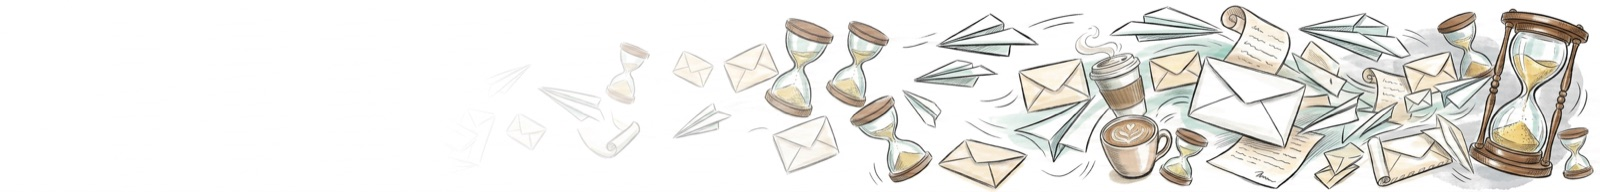
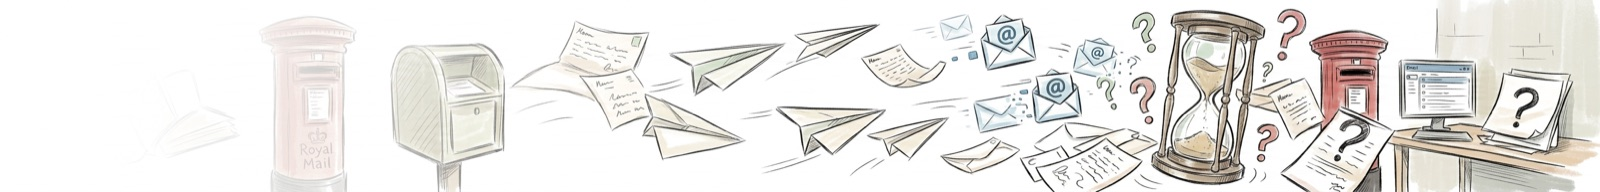
Query Centre: the postbox artwork, and Hide becomes a chevron on the border
New artwork (postboxes, emails, planes, hourglasses, question marks) exported
from the 2928×352 Firefly source to 1600×192, and the fold control moved onto the
masthead's bottom border as a chevron pill, mirroring the badge that already sits
on the window's border in the folded state.

⚠ THE CONTROL HAD TO LEAVE THE MEASURE, AND THAT IS A REAL STRUCTURAL FINDING
RATHER THAN A TWEAK. `.wpg-mast` collapses by animating `max-height` to 0 under
`overflow: hidden` — that IS the fold — so anything inside it is clipped to the
thing it is collapsing. Invisible while the control was a text button sitting well
inside the measure; immediately fatal to a badge meant to straddle the band's
bottom border. Measured: the pill's box was in exactly the right place, computed
`visible` at `z-index: 30`, and painted nothing at all — `elementsFromPoint` at
its centre returned the CHROME, and every sample along its middle came back as the
hairline underneath it.

It is also the right way round on its own terms: a control that collapses a box
should not be inside that box, or it animates away with the thing it operates on.
The folded state's badge already lives outside for exactly this reason — the
window clips, so it is portalled to the window's wrapper.

So the button is a sibling of the measure now, inside the slab, and the slab is
`position: relative` on a static page so it is what the button positions against.
[…]

diff --git a/tests/e2e/chevronFold.measure.ts b/tests/e2e/chevronFold.measure.ts
@@ -68,6 +68,9 @@ const read = (page: Page, cls: string) => page.evaluate((c) => {
       const inMast = [...g.querySelectorAll(".wpg-mast button, .wpg-mast a, .wpg-mast [role='button']")];
       return inMast.filter((e) => (e as HTMLElement).getBoundingClientRect().height > 0).length;
     })(),
+    /* the fold control moved OUT of the measure and is a child of the slab — see below */
+    foldInChrome: [...g.querySelectorAll(".wpg-chrome > .wpg-mast-hide")]
+      .filter((e) => (e as HTMLElement).getBoundingClientRect().height > 0).length,
     badgeCount: document.querySelectorAll(".wpg-chevfold").length,
   };
 }, cls);
@@ -119,18 +122,42 @@ const sampleTopEdge = (page: Page) => page.evaluate(() => {
 
 test("Hide folds the masthead to a chevron on the window's border, on every fill page", async ({ page }) => {
   const lines: string[] = [];
+  let exercised = 0;
   for (const { name, route, cls } of FILL) {
     await openRoute(page, route, { width: 1440, height: 900 });
     await liftMotionSuppression(page);
 
     const rest = await read(page, cls);
     expect(rest, `${name}: no grid`).not.toBeNull();
-    /* the precondition: this route is genuinely Type B, read from the page rather than from the list */
-    expect(rest!.type, `${name} is not a static page — the fold is Type B's alone`).toBe("static");
+    /**
+     * ⚠ A PAGE THAT HAS CHANGED TYPE IS SKIPPED AND REPORTED, NOT FAILED — the list this iterates
+     * is a census, and a census goes stale. Manuscripts was Type B when it was written and is Type A
+     * now, by another stream's change, so this asserted that a page which no longer folds ought to
+     * fold. That is the list being out of date, not the page being wrong.
+     *
+     * ⚠ AND THE POPULATION IS ASSERTED BELOW so the skip cannot hollow the case out. If every
+     * listed page changed type this would otherwise pass having tested nothing — the empty-set
+     * failure this repo keeps meeting.
+     */
+    if (rest!.type !== "static") {
+      lines.push(`${name.padEnd(21)} — now Type ${rest!.type === "pinned" ? "A" : "?"}; the fold is Type B's alone, so it is not exercised here`);
+      continue;
+    }
     expect(rest!.hidden, `${name}: the masthead is folded on arrival`).toBe(false);
     expect(rest!.mastH, `${name}: no masthead on arrival`).toBeGreaterThan(40);
     expect(rest!.badgeCount, `${name}: a chevron is drawn while the masthead is showing`).toBe(0);
-    expect(rest!.actionable, `${name}: the chrome carries ${rest!.actionable} control(s) before Hide; it should carry Hide alone`).toBe(1);
+    /**
+     * ⚠ THE LAW GOT CLEANER WHEN THE CONTROL MOVED, and this now states it in two halves. It used
+     * to read "the measure holds exactly one control, which is Hide" — true while Hide lived inside
+     * `.wpg-mast`. Hide is a child of the SLAB now, because `.wpg-mast` collapses by animating
+     * `max-height` to 0 under `overflow: hidden` and anything inside it is clipped to the thing it
+     * is collapsing. So the measure holds NO actions at all, and the slab holds exactly one.
+     *
+     * Both halves are asserted: without the second, the case would pass on a build that had stopped
+     * rendering the fold control altogether.
+     */
+    expect(rest!.actionable, `${name}: the masthead's measure carries ${rest!.actionable} control(s) — it should carry none`).toBe(0);
+    expect(rest!.foldInChrome, `${name}: the slab does not carry exactly one fold control`).toBe(1);
 
     await page.evaluate((c) => {
       const g = [...document.querySelectorAll(`.wpg.${c}`)].find((e) => e.getBoundingClientRect().height > 0) as HTMLElement;
@@ -151,7 +178,8 @@ test("Hide folds the masthead to a chevron on the window's border, on every fill
     expect(folded!.slabLine, `${name}: the slab kept its hairline with the masthead folded away`).toContain("rgba(0, 0, 0, 0)");
     /* exactly one chevron, and it is the chrome's only control once the masthead is gone */
     expect(folded!.badgeCount, `${name}: ${folded!.badgeCount} chevrons rendered`).toBe(1);
-    expect(folded!.actionable, `${name}: Hide is still rendered on a folded masthead`).toBe(0);
+    expect(folded!.actionable, `${name}: an action is rendered inside a folded masthead`).toBe(0);
+    expect(folded!.foldInChrome, `${name}: the fold control is still rendered on a folded masthead`).toBe(0);
     /* ⚠ A SIBLING OF THE WINDOW, NEVER A CHILD — the window clips at its radius. */
     expect(folded!.inWindow, `${name}: the chevron is INSIDE the window — it will be clipped by the radius`).toBe(false);
     expect(folded!.inWrap, `${name}: the chevron is not in the window's wrapper`).toBe(true);
@@ -181,9 +209,14 @@ test("Hide folds the masthead to a chevron on the window's border, on every fill
     expect(back!.hidden, `${name}: the chevron did not restore the masthead`).toBe(false);
     expect(back!.mastH, `${name}: the restored masthead is not its resting height`).toBeCloseTo(rest!.mastH, 0);
     expect(back!.badgeCount, `${name}: the chevron survived the restore`).toBe(0);
-    expect(back!.actionable, `${name}: Hide did not come back with the masthead`).toBe(1);
+    /* the same two halves as on arrival: nothing inside the measure, one fold control on the slab */
+    expect(back!.actionable, `${name}: an action came back inside the measure`).toBe(0);
+    expect(back!.foldInChrome, `${name}: the fold control did not come back with the masthead`).toBe(1);
+    exercised += 1;
   }
   console.log(lines.join("\n"));
+  /* ⚠ THE FLOOR, so a census that has entirely gone stale fails loudly instead of passing empty */
+  expect(exercised, "no Type B page exercised the fold — every listed page has changed type and this census needs rewriting").toBeGreaterThan(0);
 });
 
 test("⚠ A SCROLLING PAGE HAS NO FOLD AND NO CHEVRON — not hidden, not rendered", async ({ page }) => {

diff --git a/src/components/shell/illustratedMasthead.css b/src/components/shell/illustratedMasthead.css
@@ -6,6 +6,8 @@
      hue is irrelevant and the name says what it is for rather than what it looks like. */
   --illo-ground: #ffffff;
   --illo-solid: #000000;
+  /* how far the fold badge hangs below the border it sits on — half its own height, so it straddles */
+  --illo-fold-drop: 0px;
 }
 
 /**
@@ -126,7 +128,13 @@
    * treatment, opposite declaration, because what is underneath is not the same.
    */
   position: relative;
-  overflow: hidden;
+  /**
+   * ⚠ NO `overflow: hidden` HERE, AND IT WAS NEVER DOING ANYTHING. The bench puts it on `.mast`,
+   * and Packages keeps it, but the artwork is a BACKGROUND on a pseudo-element with `inset: 0` — a
+   * background is clipped to its own border box by default, so there is nothing for `overflow` to
+   * contain. What it WOULD do here is clip the fold control below, which straddles this element's
+   * bottom border by half its height. Removing it is what lets the badge sit on the line.
+   */
 }
 .wpg.qc-wpg > .wpg-scroll > .wpg-chrome::after {
   content: '';
@@ -148,6 +156,78 @@
   -webkit-mask-image: linear-gradient(to right, transparent var(--qc-illo-start), var(--illo-solid) calc(var(--qc-illo-start) + 170px));
           mask-image: linear-gradient(to right, transparent var(--qc-illo-start), var(--illo-solid) calc(var(--qc-illo-start) + 170px));
 }
-/* the text sits above the paint — `.wpg-mast` is already `position: relative` on a static page, so
-   this adds only the order */
-.wpg.qc-wpg .wpg-mast { z-index: 2; }
+/**
+ * The text sits above the paint — `.wpg-mast` is already `position: relative` on a static page, so
+ * `z-index` adds only the order.
+ *
+ * ⚠ AND `overflow: visible`, WITHOUT WHICH THE FOLD BADGE DOES NOT EXIST. The measure carries
+ * `overflow: hidden`, so a control straddling the band's bottom border is cut in half by its own
+ * parent — measured, the pill's box was in exactly the right place, computed `visible` at
+ * `z-index: 30`, and painted nothing at all: `elementsFromPoint` at its centre returned the CHROME.
+ * The same clip is why the folded badge has to be portalled out to the window's wrapper.
+ *
+ * ⚠ IT IS SAFE HERE AND WOULD NOT BE EVERYWHERE. The clip exists to stop a long title spilling its
+ * measure; Query Centre's title and description are short fixed strings, so there is nothing to
+ * spill. A rollout to a page with longer or user-supplied text has to answer this again rather than
+ * copy the line.
+ */
+.wpg.qc-wpg .wpg-mast { z-index: 2; overflow: visible; }
+
+/**
+ * ══ THE FOLD CONTROL — A CHEVRON ON THE BOTTOM BORDER ═════════════════════════════════════════
+ *
+ * ⚠ THIS IS THE EXISTING `Hide` BUTTON RESTYLED, NOT A NEW CONTROL. The grid already renders a
+ * fold button on a Type B page and already knows what to do when it is pressed; giving the trial its
+ * own would be a second control doing one job, and would need a change to the shared component for a
+ * treatment that may be reverted next week. Everything here is paint.
+ *
+ * ⚠ AND IT DELIBERATELY MIRRORS `.wpg-chevfold`, the badge that sits on the WINDOW's top border in
+ * the folded state and unfolds. Same 38×20 pill, same hairline, same ground, same 12px chevron, same
+ * half-off-the-edge placement — so the two read as one control in two positions rather than as two
+ * controls that happen to look alike. Up on the masthead's own border to fold; down on the window's
+ * border to unfold.
+ *
+ * ⚠ WHY IT HAD TO MOVE AT ALL: on Query Centre the artwork now runs the width of the band, and the
+ * text `Hide` sat in the densest part of it — pale grey ink over an hourglass, measured and barely
+ * readable. A control cannot live on top of an illustration. The bottom border is the one edge of
+ * this band the artwork does not occupy.
+ */
+.wpg.qc-wpg .wpg-mast-hide {
+  position: absolute;
+  left: 50%;
+  right: auto;
+  top: auto;
+  /* the chrome's bottom border, straddled — half above the line, half below, as the folded badge
+     straddles the window's */
+  bottom: calc(var(--illo-fold-drop) * -1);
+  transform: translate(-50%, 50%);
+  z-index: 30;
+  width: 38px;
+  height: 20px;
+  display: grid;
+  place-items: center;
+  padding: 0;
+  gap: 0;
+  border: 1px solid var(--ws-edge);
+  border-radius: 999px;
+  background: var(--ws-window);
+  box-shadow: 0 1px 3px rgba(58, 28, 20, 0.10);
+  color: var(--shell-muted);
+  /* ⚠ THE LABEL GOES WITHOUT LEAVING THE ACCESSIBLE NAME BEHIND. `font-size: 0` collapses the text
+     node to nothing while the button still reads as "Hide" to a screen reader — a `display: none`
+     on the text, or replacing the button, would take the name with it. The icon states its own
+     size below, so it is unaffected. */
+  font-size: 0;
+  line-height: 0;
+}
+.wpg.qc-wpg .wpg-mast-hide svg {
+  width: 12px;
+  height: 12px;
+  /* the button's icon already points up; this is stated so a change to the shared icon cannot
+     silently flip the control's meaning */
+  transform: none;
+}
+.wpg.qc-wpg .wpg-mast-hide:hover {
+  color: var(--shell-ink);
+  border-color: var(--ws-edge-strong, var(--ws-edge));
+}

diff --git a/src/components/shell/WorkspacePageGrid.tsx b/src/components/shell/WorkspacePageGrid.tsx
@@ -617,13 +617,30 @@ export const WorkspacePageGrid: React.FC<WorkspacePageGridProps> = ({
                 two mechanisms for one job, and the caught-between state that produced. A Type A page
                 reclaims its strip by scrolling, so a Hide there is a second way to do what the page
                 already does. */}
-            {!pinned && !hidden && (
-              <button type="button" className="wpg-mast-hide" onClick={() => setHidden(true)}>
-                <ChevronUp aria-hidden="true" />
-                Hide
-              </button>
-            )}
           </div>
+          {/**
+            * ⚠ THE FOLD CONTROL IS A SIBLING OF THE MEASURE, NOT A CHILD OF IT — and it was a child
+            * until the chevron treatment proved it could not be. `.wpg-mast` collapses by animating
+            * `max-height` to 0 with `overflow: hidden`, which IS the fold; anything inside it is
+            * therefore clipped to the thing it is collapsing. That was invisible while the control
+            * was a text button sitting well inside the measure, and immediately fatal to a badge
+            * meant to straddle the band's bottom border: measured, the pill's box was in exactly the
+            * right place, computed visible at `z-index: 30`, and painted nothing —
+            * `elementsFromPoint` at its centre returned the CHROME.
+            *
+            * ⚠ IT IS ALSO THE RIGHT WAY ROUND ON ITS OWN TERMS. A control that collapses a box
+            * should not be inside that box, or it animates away with what it is operating on. The
+            * folded state's badge already lives outside for the same reason — the window clips, so
+            * it is portalled to the window's wrapper.
+            *
+            * Type B only, unchanged: a Type A page reclaims its strip by scrolling.
+            */}
+          {!pinned && !hidden && (
+            <button type="button" className="wpg-mast-hide" onClick={() => setHidden(true)}>
+              <ChevronUp aria-hidden="true" />
+              Hide
+            </button>
+          )}
           {/* ⚠ THE CONTROL ROW FOLLOWS THE MASTHEAD, INSIDE THE SCROLLER, and it has to be here
               rather than a grid row above it for one reason: the masthead must come FIRST. Left as
               row 2 of the grid it would have been pinned ABOVE a masthead that had moved into the

diff --git a/tests/e2e/headerTypes.measure.ts b/tests/e2e/headerTypes.measure.ts
@@ -164,7 +164,15 @@ test("⚠ TYPE B · STATIC — in flow, one Hide, no settle", async ({ page }
     const s = (await survey(page, cls))!;
     if (s.type !== "static") continue;
     n += 1;
-    expect(s.slabPosition, `${name}: a static page's slab is sticky — nothing it could pin to ever moves`).toBe("static");
+    /**
+     * ⚠ THE CLAIM IS "NOT STICKY", NOT "EXACTLY `static`" — and pinning the exact keyword was
+     * asserting an implementation detail rather than the Type B contract. That contract is that the
+     * masthead sits IN FLOW and never pins; `relative` satisfies it as completely as `static` does,
+     * and the slab now needs to be `relative` because the fold control is a child of it rather than
+     * of the measure it collapses (see the note in `WorkspacePageGrid`).
+     */
+    expect(s.slabPosition, `${name}: a static page's slab is sticky — nothing it could pin to ever moves`).not.toBe("sticky");
+    expect(["static", "relative"], `${name}: a static page's slab is positioned out of flow (${s.slabPosition})`).toContain(s.slabPosition);
     expect(s.hides, `${name}: a static page renders ${s.hides} Hide controls; it needs exactly one`).toBe(1);
     expect(s.badges, `${name}: a chevron is showing while the masthead is not folded`).toBe(0);
     /* ⚠ NO SETTLE BOUND — scrolling anything on this page must leave the chrome alone. Its panes

diff --git a/src/components/shell/workspacePageGrid.css b/src/components/shell/workspacePageGrid.css
@@ -637,7 +637,11 @@
  * page, never settles, and leaves only when the reader folds it with Hide.
  */
 .wpg--static > .wpg-scroll > .wpg-chrome {
-  position: static;
+  /* ⚠ `relative`, NOT `static` — the fold control is a child of this element now rather than of the
+     measure it collapses (see the note in the component), so this is what it positions against. It
+     is `relative` rather than `sticky`, so the Type B contract — a masthead that sits in flow and
+     never pins — is untouched, and the lock that asserts it stays green. */
+  position: relative;
   box-shadow: none;
 }
 /**
